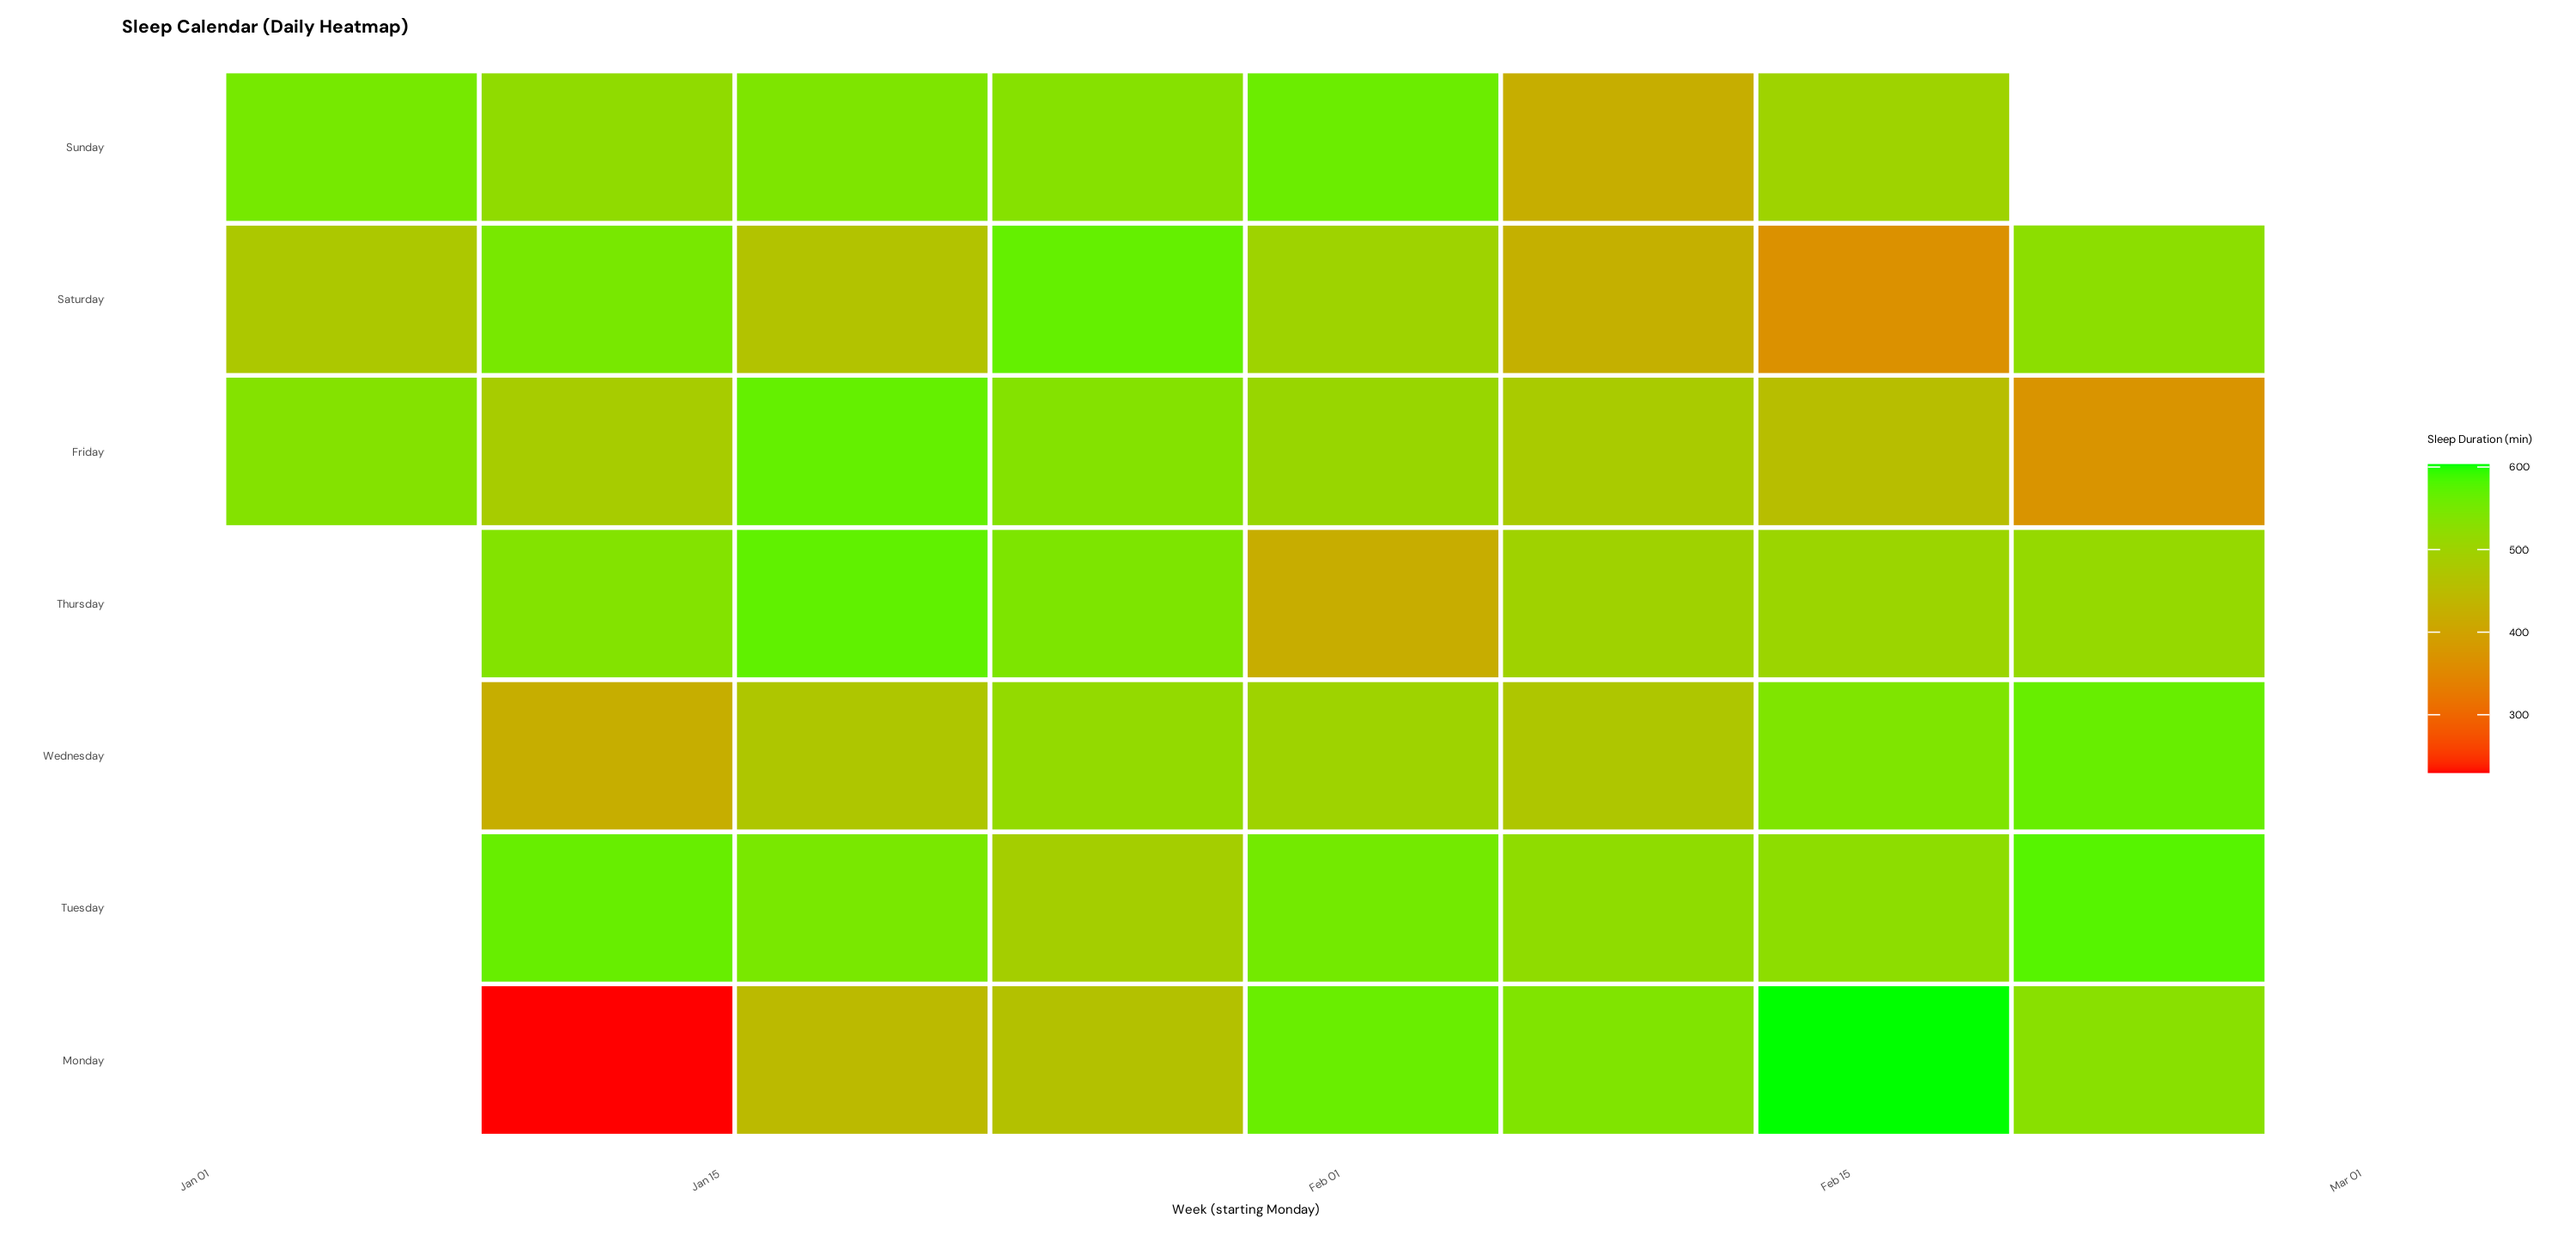
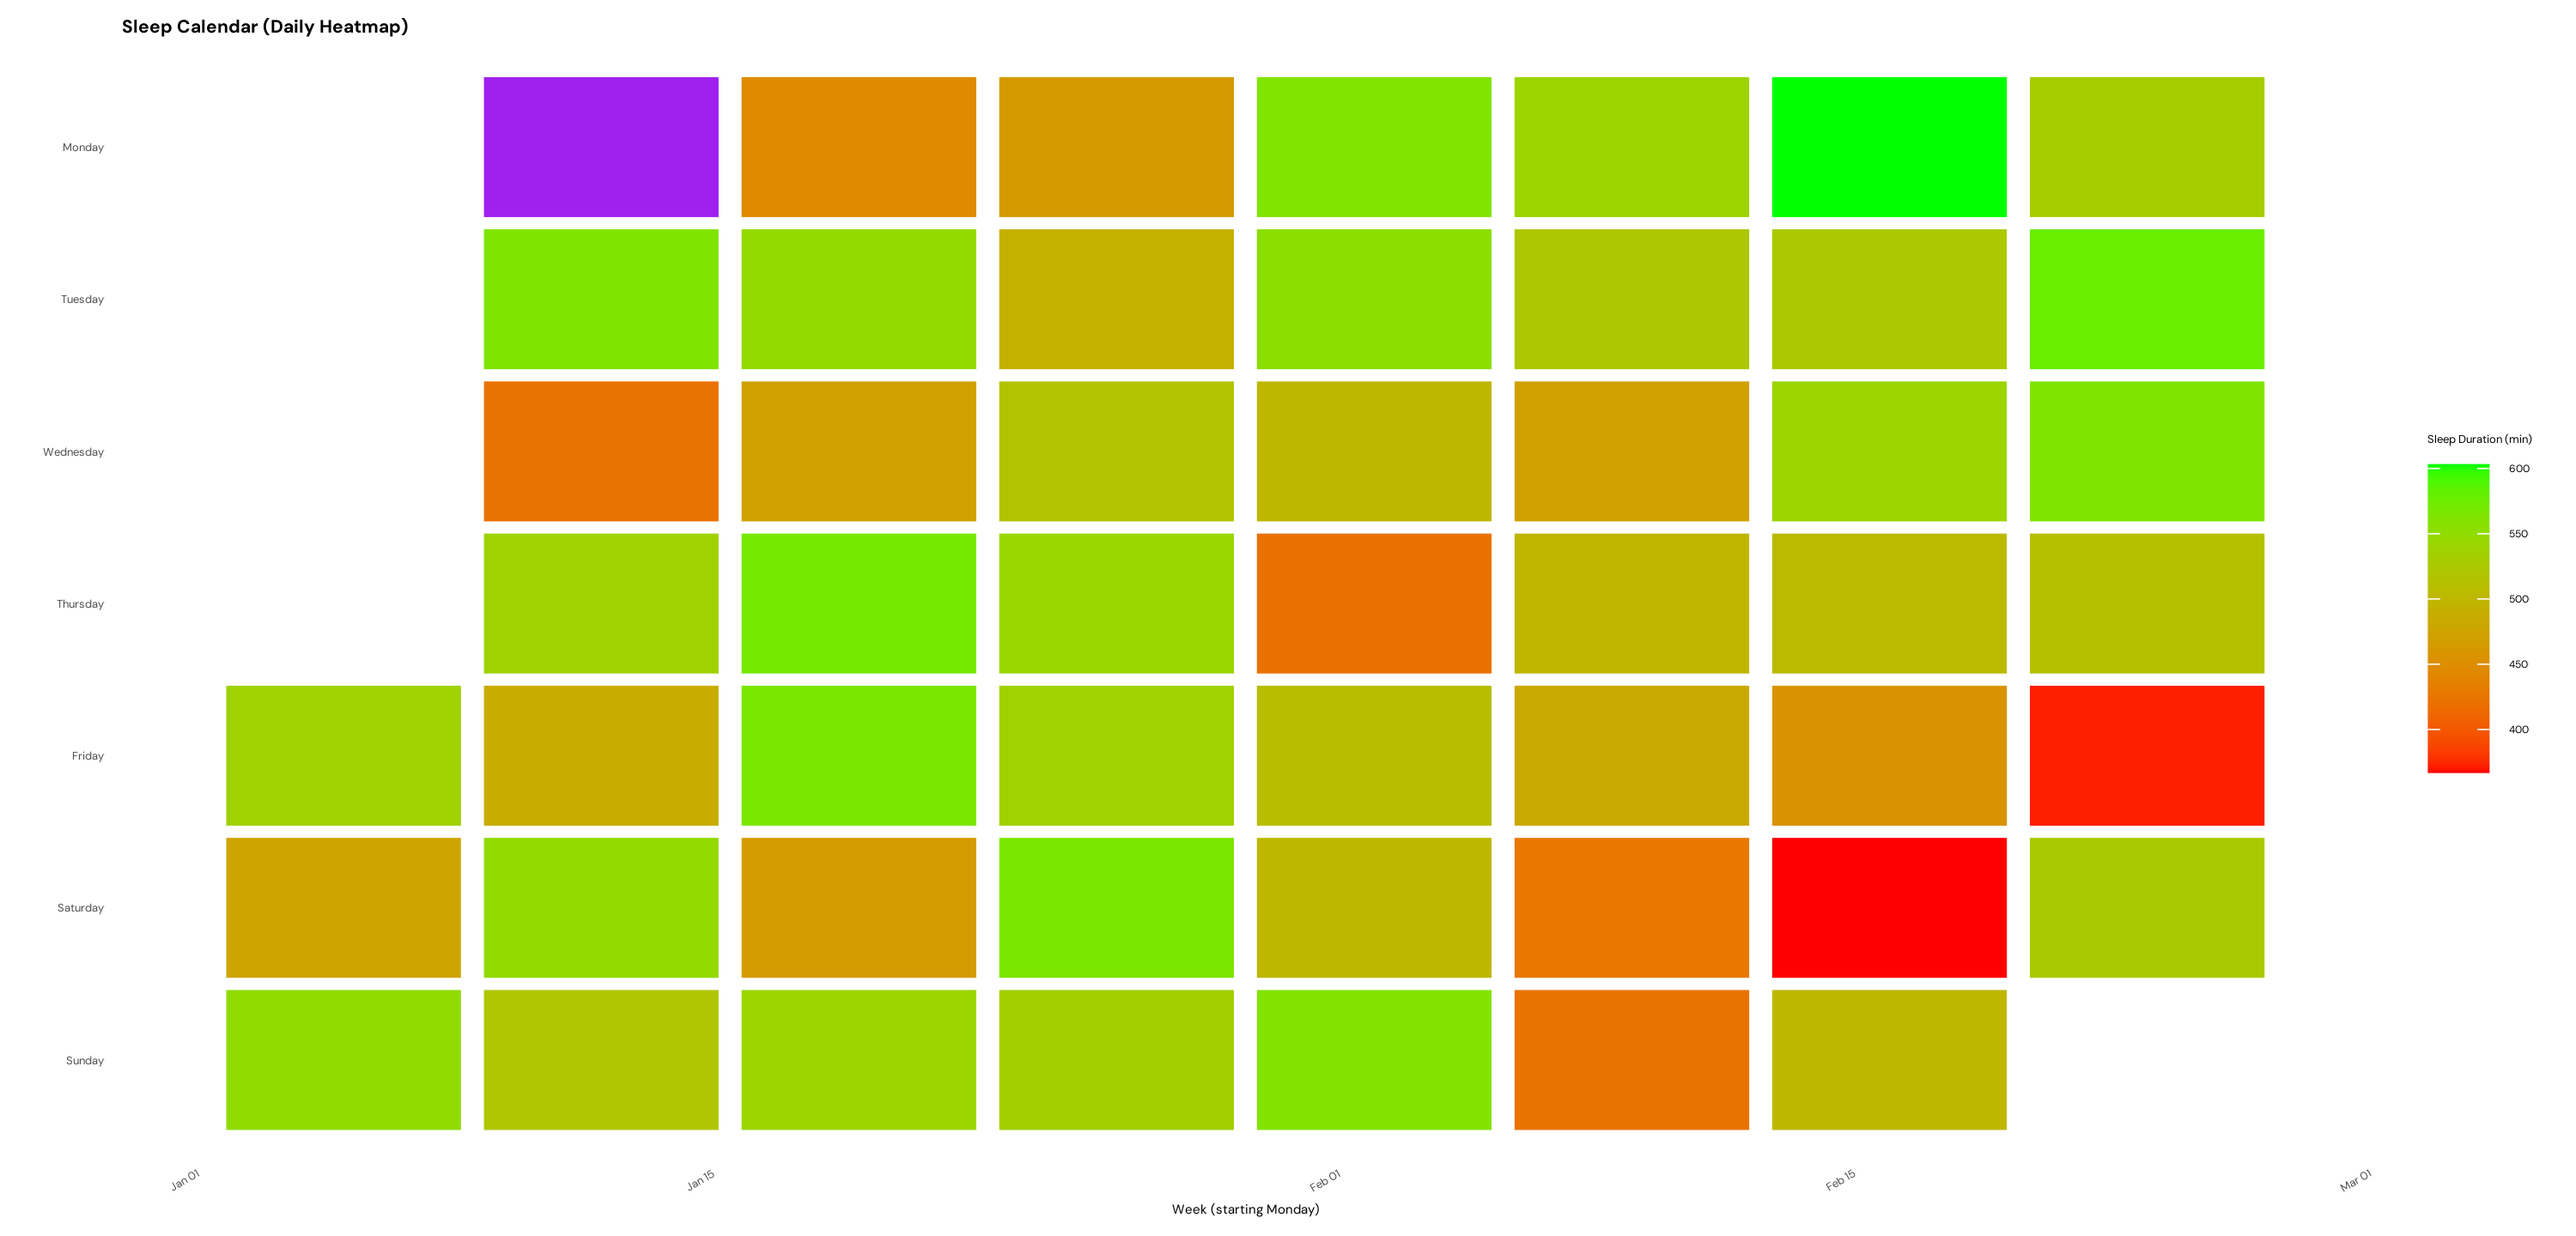
update heatmap to addresss comments

diff --git a/Code_files/my_code.html b/Code_files/my_code.html
@@ -138,7 +138,7 @@ pre > code.sourceCode > span > a:first-child::before { text-decoration: underlin
 <span id="cb1-10"><a href="#cb1-10" aria-hidden="true" tabindex="-1"></a><span class="fu">library</span>(fontawesome) <span class="co"># loads in fontawesome package</span></span>
 <span id="cb1-11"><a href="#cb1-11" aria-hidden="true" tabindex="-1"></a></span>
 <span id="cb1-12"><a href="#cb1-12" aria-hidden="true" tabindex="-1"></a><span class="co"># Stores my personal data as an object called my_data</span></span>
-<span id="cb1-13"><a href="#cb1-13" aria-hidden="true" tabindex="-1"></a>raw_data <span class="ot">&lt;-</span> <span class="fu">read.csv</span>(<span class="fu">here</span>(<span class="st">'data'</span>,<span class="st">"193DS data - stress (4).csv"</span>)) </span></code><button title="Copy to Clipboard" class="code-copy-button"><i class="bi"></i></button></pre></div>
+<span id="cb1-13"><a href="#cb1-13" aria-hidden="true" tabindex="-1"></a>raw_data <span class="ot">&lt;-</span> <span class="fu">read.csv</span>(<span class="fu">here</span>(<span class="st">'data'</span>,<span class="st">"193DS data - stress (5).csv"</span>)) </span></code><button title="Copy to Clipboard" class="code-copy-button"><i class="bi"></i></button></pre></div>
 </div>
 <p><strong>Cleaning data</strong></p>
 <div class="cell">
